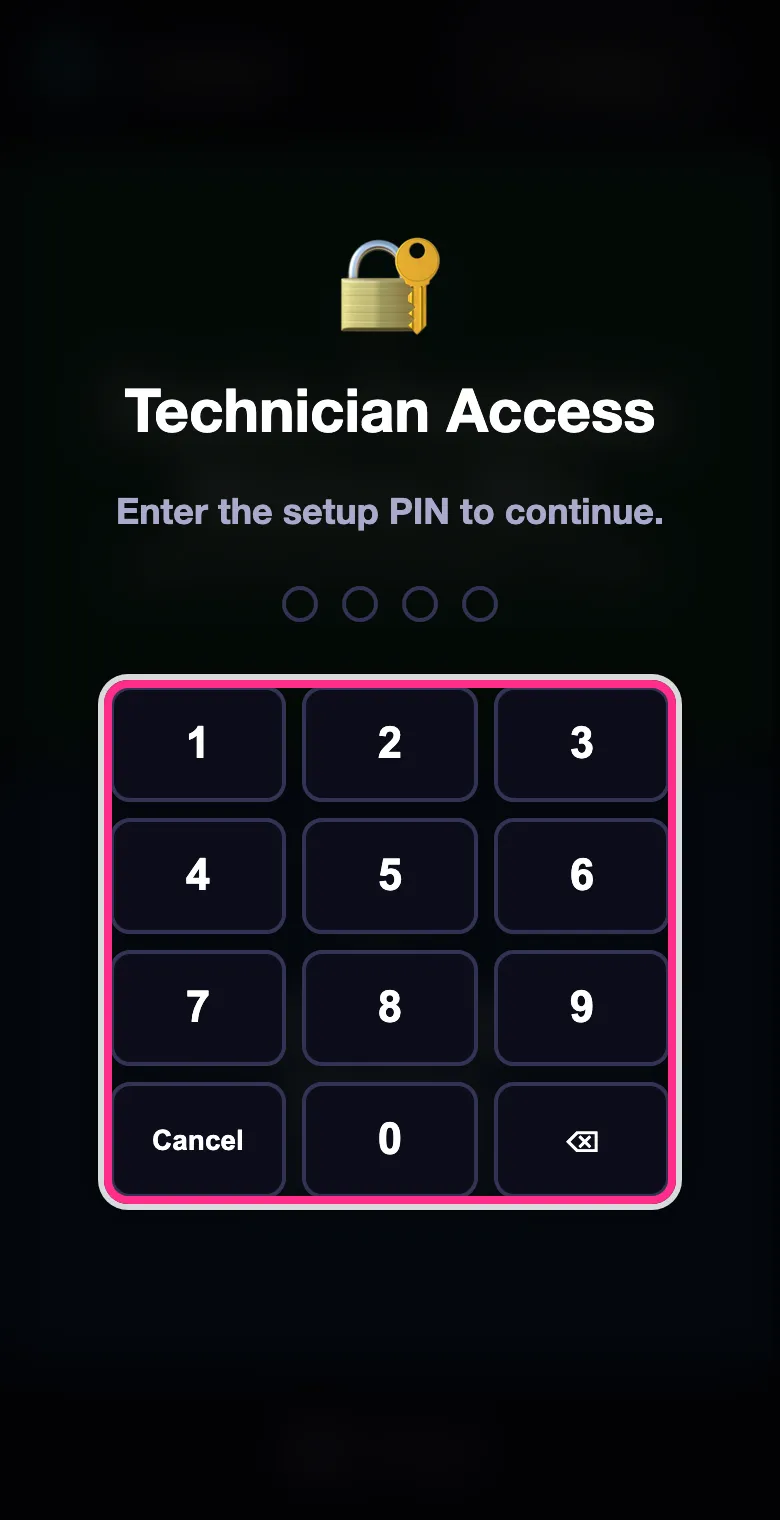
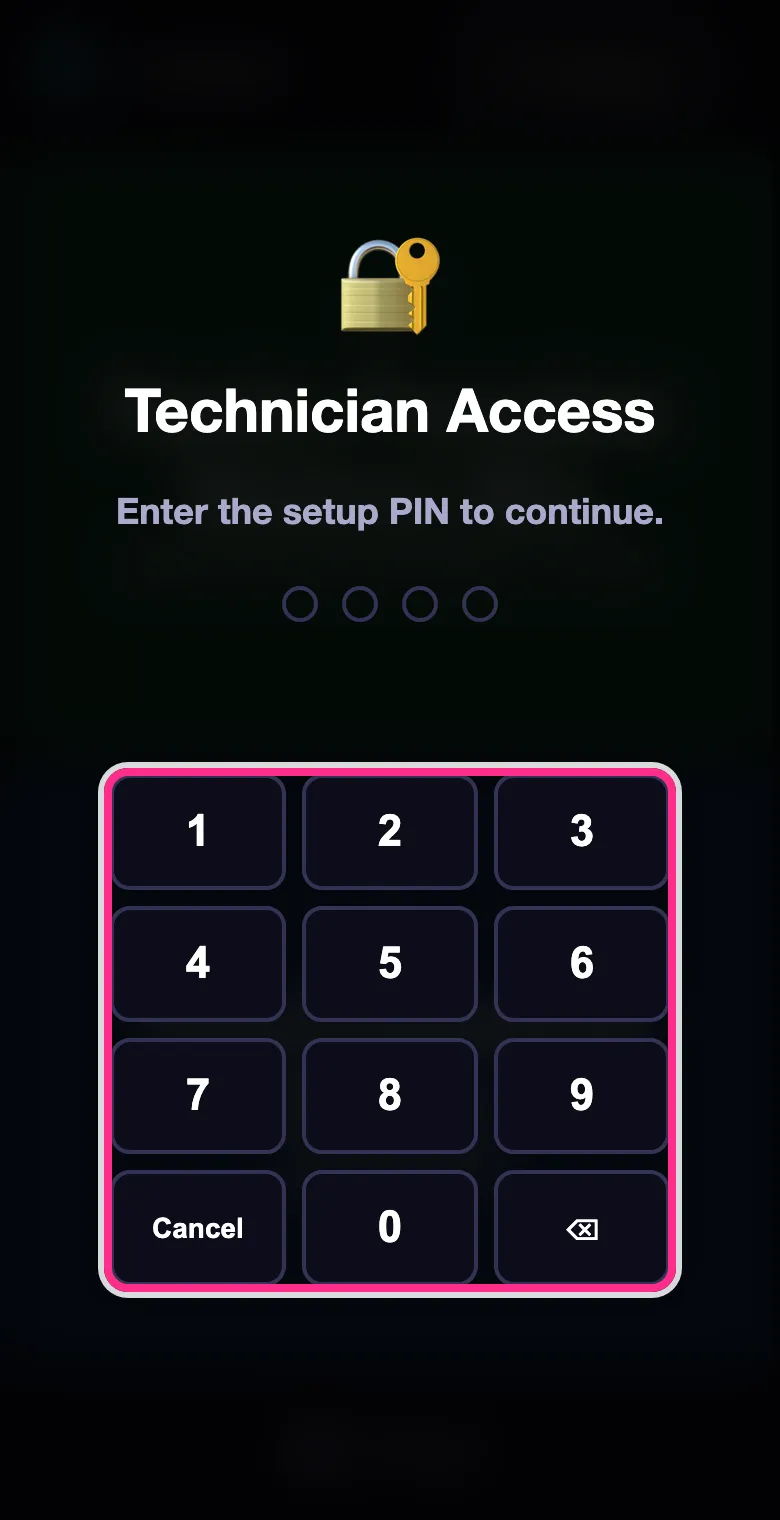
chore: RadioGrid v7.24.1

Changed region(s): [[0.1231, 0.4329, 0.8923, 0.8658]]

diff --git a/RadioGridXL.html b/RadioGridXL.html
@@ -3171,7 +3171,7 @@ html.theme-fading, html.theme-fading * {
         </div>
       </div>
       <button id="reset-btn" onclick="confirmReset()">Reset to Defaults</button>
-      <div id="settings-version">RadioGrid v7.24.0</div>
+      <div id="settings-version">RadioGrid v7.24.1</div>
       <!-- Who made it, from PROFILE.madeBy; never a link (promise-stays-radio).
            MarshWorks gets the brand kit's "made by" block; any other maker,
            and the MonoRadio and High Contrast themes, get the plain text line. -->

diff --git a/src/shell.html b/src/shell.html
@@ -402,7 +402,7 @@
         </div>
       </div>
       <button id="reset-btn" onclick="confirmReset()">Reset to Defaults</button>
-      <div id="settings-version">RadioGrid v7.24.0</div>
+      <div id="settings-version">RadioGrid v7.24.1</div>
       <!-- Who made it, from PROFILE.madeBy; never a link (promise-stays-radio).
            MarshWorks gets the brand kit's "made by" block; any other maker,
            and the MonoRadio and High Contrast themes, get the plain text line. -->

diff --git a/sw.js b/sw.js
@@ -5,7 +5,7 @@
    it sat at v1 from 7.5.0). Keep it in lockstep with the version-bump routine.
    The server sends sw.js no-cache, so each load refetches this file and the
    install→activate purge cycle kicks in. */
-const CACHE_VERSION = 'rgxl-shell-7.24.0';
+const CACHE_VERSION = 'rgxl-shell-7.24.1';
 
 /* Shell assets, relative to the SW scope (the directory it's served from).
    start_url is "." so the HTML is reachable both as "./" and by filename.

diff --git a/CLAUDE.md b/CLAUDE.md
@@ -17,7 +17,7 @@ RadioGrid is a radio for people who can't run a normal app: someone sets it up o
   - **Promises**: `PROMISES.md` lists what the app promises its users; each line names its check. `tests/promises.test.mjs` runs every check against a throwaway copy with each breaker in `tests/promise-breakers.mjs` applied, and fails if any breaker gets through. The Chromium checks (`promise-no-egress`, `promise-reduced-motion`, the rendered half of `contrast`) share one walk of every screen, `walkEverything()` in `tests/browser-harness.mjs`: a new screen or dialog goes there. They need `npx playwright install chromium` and the sandbox off
   - `npm run test:dom` — behavioral tests (`node:test` + jsdom) for the persistence / validation / PIN logic, run against the real app in a DOM. Dev dependencies: jsdom (tests) and Playwright (guide screenshots, and the real-Chromium promise checks). jsdom has no layout engine, so `tests/layout.test.mjs` checks `renderButtons`' sizing arithmetic on stubbed element sizes only; how text actually wraps and clips is verified on a real screen.
 - **Scheduled checks** (GitHub Actions, read-only, failures email): `live.yml` runs `smoke-live.mjs` against marsh.city/radio daily; `shelves.yml` runs `check-shelves.mjs` on Mondays. Node is pinned in `.nvmrc` for CI and local runs alike; the smoke test fails on a mismatch, so after a Node upgrade bump `.nvmrc`
-- **Version**: v7.24.0 (shown in settings footer, `#settings-version` in `src/shell.html`)
+- **Version**: v7.24.1 (shown in settings footer, `#settings-version` in `src/shell.html`)
 
 ## Architecture
 

diff --git a/guide/guide.md b/guide/guide.md
@@ -1,7 +1,7 @@
 ---
 title: How to use RadioGrid
 description: Open settings, change and add stations, pick a theme, and set it up for someone who just wants to press a button and hear music.
-appVersion: 7.24.0
+appVersion: 7.24.1
 ---
 
 RadioGrid is built for the person listening: big buttons, one per station, nothing else to figure out. Everything you can change is tucked away in a hidden settings panel, so the listener never lands there by accident.
